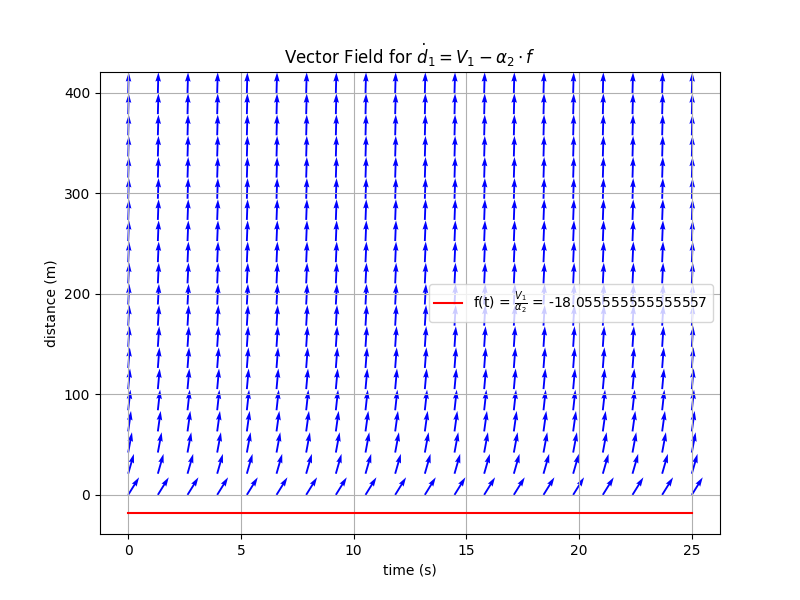
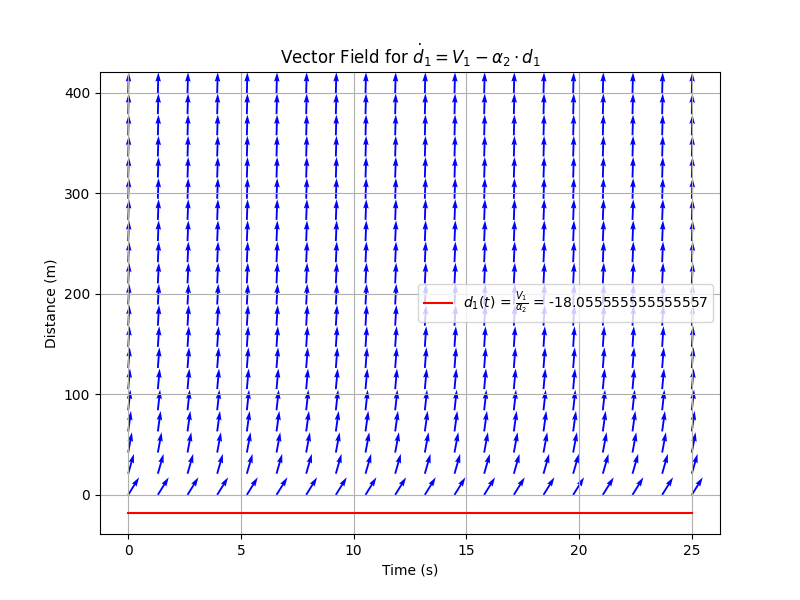
Good Graph for equilibrium linear model

diff --git a/SRTM/EDOMethod/LinearModel/CasTestToLaunch/PythonFile/Model1W3C_Equilibrium__CV_DV.py b/SRTM/EDOMethod/LinearModel/CasTestToLaunch/PythonFile/Model1W3C_Equilibrium__CV_DV.py
@@ -156,48 +156,50 @@ fig, (ax1, ax2) = plt.subplots(1, 2, figsize=(15, 6))
 
 if accident:
     # Plot the distance in the first subplot
-    ax1.plot(time[0:t+1], x1Pos[0:t+1], label='x1(t)')
-    ax1.plot(time[0:t+1], x2Pos[0:t+1], label='x2(t)')
-    ax1.plot(time[0:t+1], x3Pos[0:t+1], label='x3(t)')
-    ax1.set_xlabel('Time')
-    ax1.set_ylabel('Distance')
+    ax1.plot(time[0:t+1], x1Pos[0:t+1], label='$x_1(t)$')
+    ax1.plot(time[0:t+1], x2Pos[0:t+1], label='$x_2(t)$')
+    ax1.plot(time[0:t+1], x3Pos[0:t+1], label='$x_3(t)$')
+    ax1.set_xlabel('Time (s)')
+    ax1.set_ylabel('Distance (m)')
     ax1.legend()
     ax1.set_title('Accident case')
     ax1.grid(True)
 
 else:
     # Plot the distance in the first subplot
-    ax1.plot(time, x1Pos, label='x1(t)')
-    ax1.plot(time, x2Pos, label='x2(t)')
-    ax1.plot(time, x3Pos, label='x3(t)')
-    ax1.set_xlabel('Time(s)')
-    ax1.set_ylabel('Distance(m)')
+    ax1.plot(time, x1Pos, label='$x_1(t)$')
+    ax1.plot(time, x2Pos, label='$x_2(t)$')
+    ax1.plot(time, x3Pos, label='$x_3(t)$')
+    ax1.set_xlabel('Time (s)')
+    ax1.set_ylabel('Distance (m)')
     ax1.legend()
     ax1.grid()
-    ax1.set_title('position of the cars over time')
+    ax1.set_title('Position of the cars over time')
  
 
 if(accident):
     #print("There is an accident at time t = ", t*h, "s")
     # Plot the speeds in the second subplot
-    ax2.plot(time[0:t+1], v1[0:t+1], label='Speed of x1(t)')
-    ax2.plot(time[0:t+1], v2[0:t+1], label='Speed of x2(t)')
-    ax2.plot(time[0:t+1], v3[0:t+1], label='Speed of x3(t)')
-    ax2.set_xlabel('Time(s)')
-    ax2.set_ylabel('Speed(m/s)')
+    ax2.plot(time[0:t+1], v1[0:t+1], label='Speed of $x_1(t)$')
+    ax2.plot(time[0:t+1], v2[0:t+1], label='Speed of $x_2(t)$')
+    ax2.plot(time[0:t+1], v3[0:t+1], label='Speed of $x_3(t)$')
+    ax2.set_xlabel('Time (s)')
+    ax2.set_ylabel('Speed ($\\frac{m}{s}$)')
     ax2.legend()
     ax2.set_title('Speed of Cars Over Time')
     ax2.grid()
 else:
     # Plot the speeds in the second subplot
-    ax2.plot(time, v1, label='Speed of x1(t)')
-    ax2.plot(time, v2, label='Speed of x2(t)')
-    ax2.plot(time, v3, label='Speed of x3(t)')
+    ax2.plot(time, v1, label='Speed of $x_1(t)$')
+    ax2.plot(time, v2, label='Speed of $x_2(t)$')
+    ax2.plot(time, v3, label='Speed of $x_3(t)$')
     ax2.set_xlabel('Time')
-    ax2.set_ylabel('Speed(m/s)')
+    ax2.set_ylabel('Speed ($\\frac{m}{s}$)')
     ax2.legend()
     ax2.set_title('Speed of Cars Over Time')
     ax2.grid(True)
+
+
 
 if isDebug:
     print("The distance between x1 and x2 is : ", x1Pos[-1] - x2Pos[-1], "m")
@@ -243,8 +245,8 @@ ax.set_facecolor('white')
 
 ax.quiver(X, Y, U, V, color='blue', angles='xy', scale_units='xy', scale=10)
 ax.plot(equilibrium_x, equilibrium_y, 'ro', label='Equilibrium Point')
-ax.set_xlabel('x')
-ax.set_ylabel('y')
+ax.set_xlabel('$d_1(t)$')
+ax.set_ylabel('$d_2(t)$')
 ax.set_title('Vector Field for ODE System with Equilibrium Point')
 ax.legend()
 ax.grid(True)
@@ -263,12 +265,12 @@ d2_t=d2(t_values,d2_0,a2,a3,v1,d1_0)
 
 # Plot the x and y values
 plt.figure(figsize=(8, 6))
-plt.plot(t_values, d1_t, label='x(t)')
-plt.plot(t_values, d2_t, label='y(t)')
-plt.xlabel('t')
-plt.ylabel('x(t) and y(t)')
+plt.plot(t_values, d1_t, label='$d_1(t)$')
+plt.plot(t_values, d2_t, label='$d_2(t)$')
+plt.xlabel('Time (s)')
+plt.ylabel('$d_1(t)$ and $d_2(t)$')
 plt.legend()
-plt.title('Plot of x(t) and y(t)')
+plt.title('Analytical Solution of the System')
 plt.grid(True)
 plt.show()
 

diff --git a/SRTM/EDOMethod/LinearModel/CasTestToLaunch/PythonFile/Model1W2C_Equilibrium_CV_DV.py b/SRTM/EDOMethod/LinearModel/CasTestToLaunch/PythonFile/Model1W2C_Equilibrium_CV_DV.py
@@ -81,8 +81,8 @@ for t in range(1, n_steps):
 
 if(accident==True):
     plt.figure(figsize=(10, 6))
-    plt.plot(time[0:t+1], x1Pos[0:t+1], label='x1(t)')
-    plt.plot(time[0:t+1], x2Pos[0:t+1], label='x2(t)')
+    plt.plot(time[0:t+1], x1Pos[0:t+1], label='$x_1(t)$')
+    plt.plot(time[0:t+1], x2Pos[0:t+1], label='$x_2(t)$')
     plt.xlabel('Time (s)')
     plt.ylabel('Distance (m)')
     plt.legend()
@@ -92,8 +92,8 @@ if(accident==True):
 else:
     # Plot the results
     plt.figure(figsize=(10, 6))
-    plt.plot(time, x1Pos, label='x1(t)')
-    plt.plot(time, x2Pos, label='x2(t)')
+    plt.plot(time, x1Pos, label='$x_1(t)$')
+    plt.plot(time, x2Pos, label='$x_2(t)$')
     plt.xlabel('Time (s)')
     plt.ylabel('Distance (m)')
     plt.legend()
@@ -188,8 +188,8 @@ rc('text', usetex=True)
 plt.plot(t, x1_prime() / a2 * np.ones_like(t), 'r', label=f'$d_1(t)$ = $\\frac{{V_1}}{{\\alpha_2}}$ = {x1_prime() / a2}')
 rc('text', usetex=False)
 
-plt.xlabel('time (s)')
-plt.ylabel('distance (m)')
+plt.xlabel('Time (s)')
+plt.ylabel('Distance (m)')
 
 rc('text', usetex=True)
 plt.title('Vector Field for ' + r"$\dot{d}_1 = V_1 - \alpha_2 \cdot d_1$")
